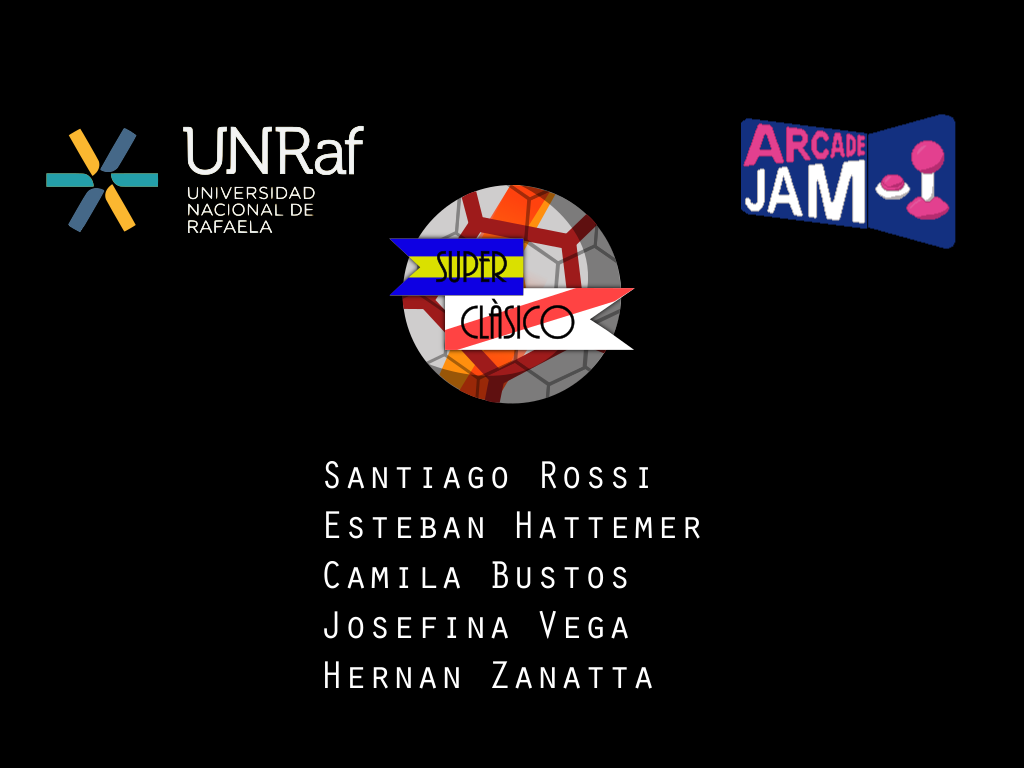
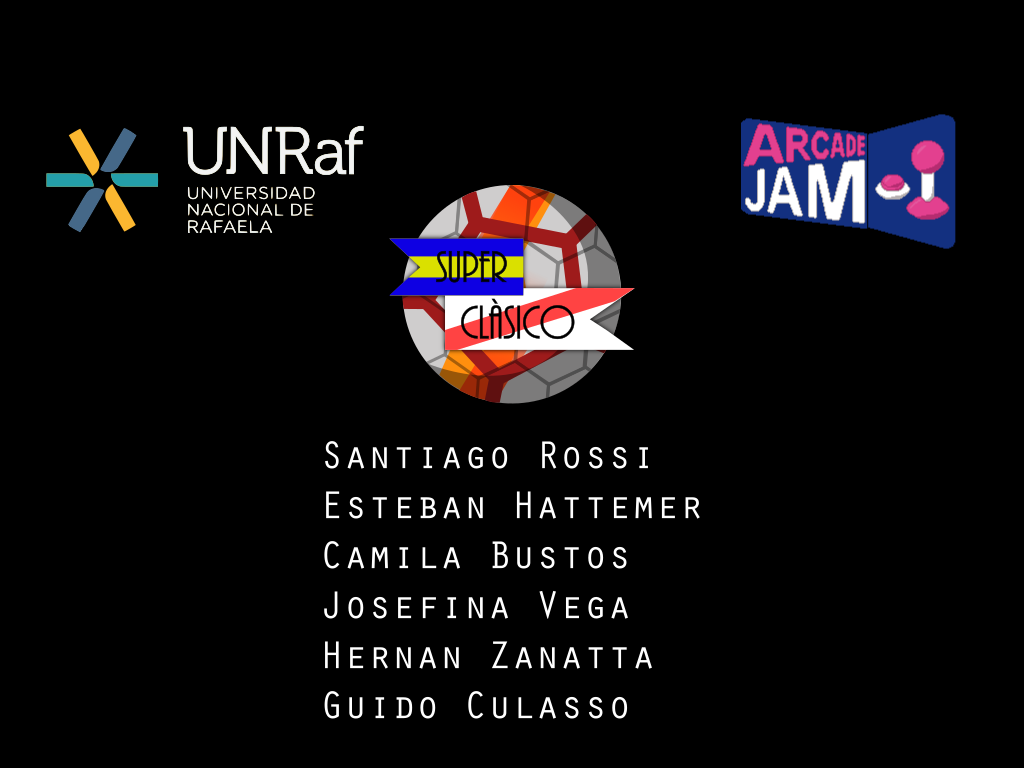
v1.03-Cambios nombres

Changed region(s): [[0.3125, 0.5625, 0.6875, 0.9375]]

diff --git a/src/05_GamePlay.js b/src/05_GamePlay.js
@@ -112,7 +112,7 @@ GamePlayManager = {
         //this.paloder = game.add.sprite(1000, 299, 'paloder');
 
         this.carlosFondoArco = game.add.sprite(1,game.world.height - game.cache.getImage('fondoArco').height/2,'fondoArco');
-        this.pityFondoArco = game.add.sprite(1000,game.world.height - game.cache.getImage('fondoArco').height/2,'fondoArco');
+        this.pityFondoArco = game.add.sprite(1015,game.world.height - game.cache.getImage('fondoArco').height/2,'fondoArco');
 
         this.carlosTechoArco = game.add.sprite(1,game.world.height - game.cache.getImage('fondoArco').height-20,'techoArco');
         this.pityTechoArco = game.add.sprite(1023,game.world.height - game.cache.getImage('fondoArco').height-20,'techoArco');

diff --git a/index.html b/index.html
@@ -15,7 +15,7 @@
 </head>
 <body> 
     <script src="src/phaser.min.js"></script>
-    <script src="src/GamePlay.js"></script>
+    <script src="src/05_GamePlay.js"></script>
 </body>
     
 </html>
